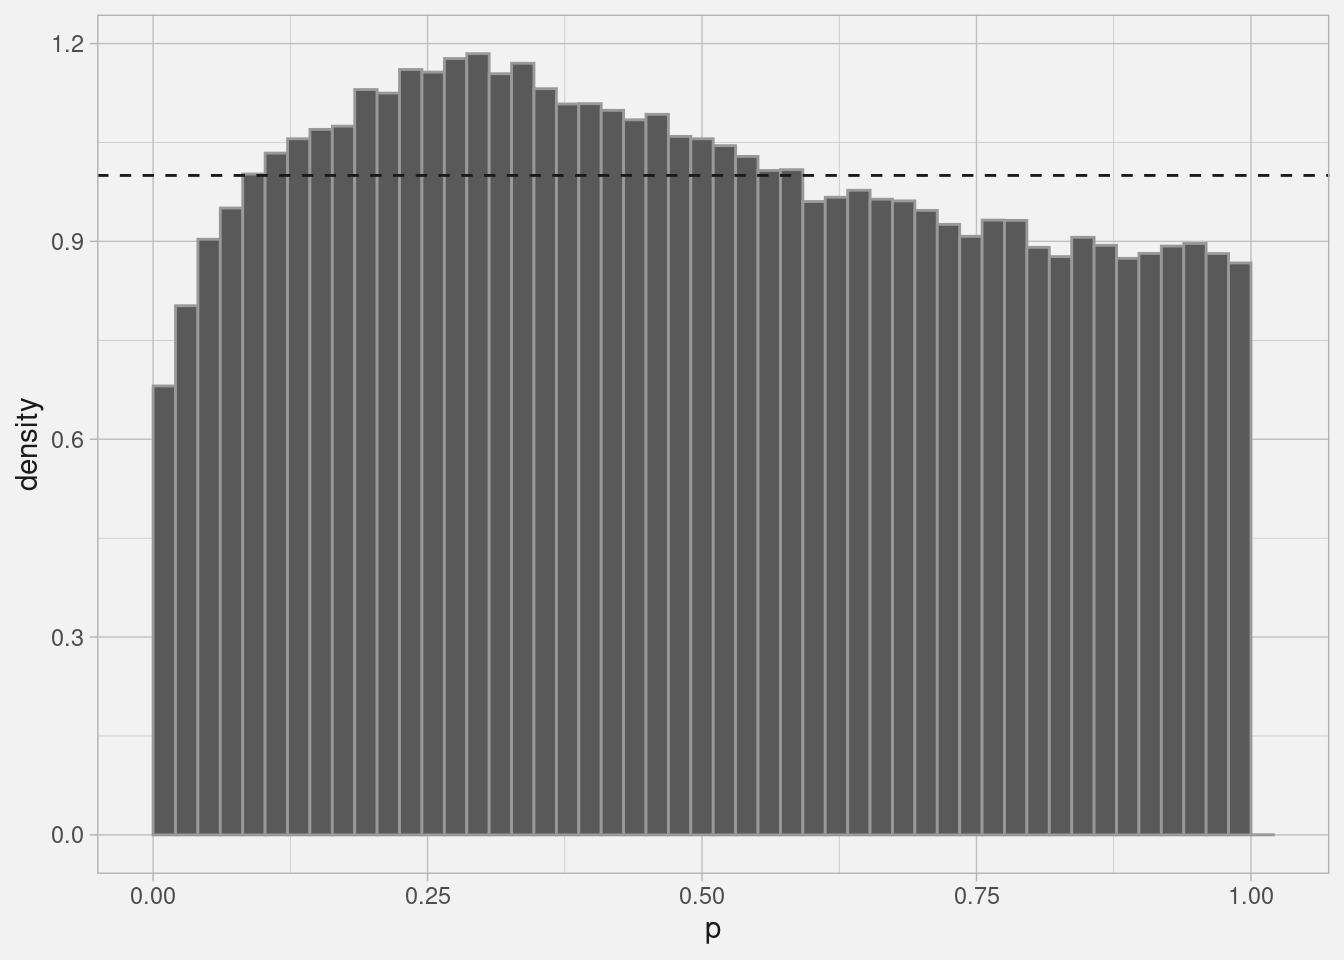
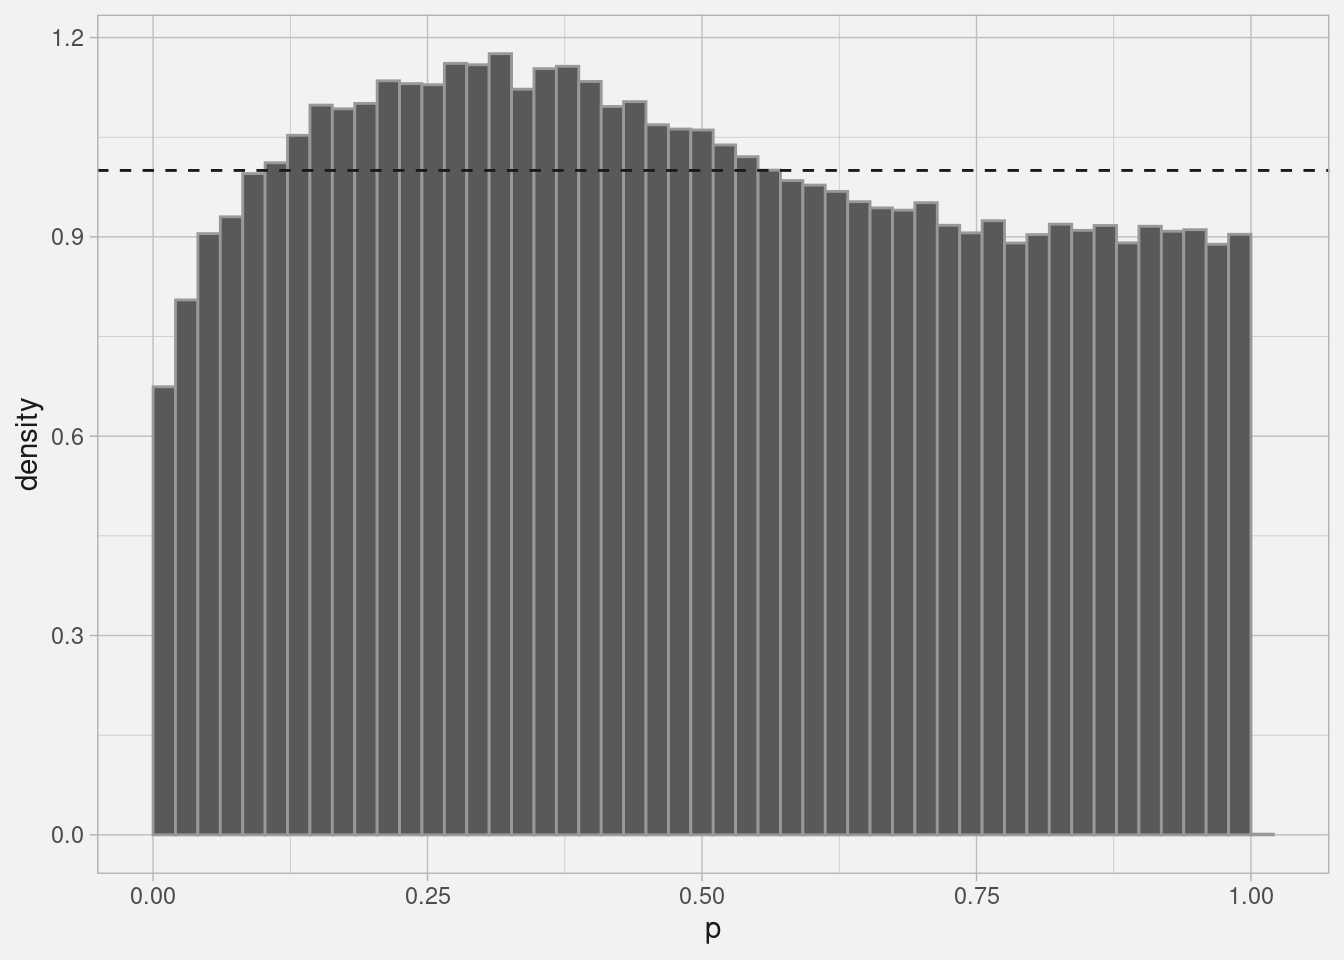
Built site for gh-pages

diff --git a/posts/collapse_is_sick/sick.html b/posts/collapse_is_sick/sick.html
@@ -7,7 +7,7 @@
 <meta name="viewport" content="width=device-width, initial-scale=1.0, user-scalable=yes">
 
 <meta name="author" content="Andrew Ghazi">
-<meta name="dcterms.date" content="2023-10-21">
+<meta name="dcterms.date" content="2023-11-29">
 
 <title>andrewghazi.github.io - collapse is sick</title>
 <style>
@@ -163,7 +163,7 @@ pre > code.sourceCode > span > a:first-child::before { text-decoration: underlin
       <div>
       <div class="quarto-title-meta-heading">Published</div>
       <div class="quarto-title-meta-contents">
-        <p class="date">October 21, 2023</p>
+        <p class="date">November 29, 2023</p>
       </div>
     </div>
     
@@ -197,14 +197,14 @@ pre > code.sourceCode > span > a:first-child::before { text-decoration: underlin
 
 
 
-<p>I saw an R package I hadn’t heard of called <a href="https://sebkrantz.github.io/collapse/">collapse</a> performing well on <a href="https://duckdblabs.github.io/db-benchmark/">the duckdb database-like ops benchmark</a> and thought I’d try it out on a little statistical simulation. tl;dr: <em>collapse is sick.</em></p>
+<p>I saw an R package I hadn’t heard of called <a href="https://sebkrantz.github.io/collapse/">collapse</a> performing well on <a href="https://duckdblabs.github.io/db-benchmark/">the duckdb database-like ops benchmark</a>, and I thought I’d try it out on a little statistical simulation. tl;dr: <em>collapse is sick.</em></p>
 <section id="context" class="level1">
 <h1>Context</h1>
 <p>I wanted to know the null p-value distribution that you’d get when mis-applying a t-test to non-normally distributed data with a small number of data points. So to simulate this I</p>
 <ul>
 <li>generate 100k groups</li>
 <li>generate 6*100k random t-distributed numbers (df = 3)</li>
-<li>compute the p-value test statistic for each group. In R, this is <code>2*pt(sqrt(6) * abs(mean(x)) / sd(x), 5, lower.tail = FALSE)</code> where <code>x</code> are the random values for the group.
+<li>compute the p-value test statistic for each group. In R, this is <code>2*pt(sqrt(6) * abs(mean(x) / sd(x)), 5, lower.tail = FALSE)</code> where <code>x</code> are the random values for the group.
 <ul>
 <li>This can be done naively with <code>t.test(x)$p.value</code> of course, but that comes with a lot of slow baggage.</li>
 <li>It’s probably also possible to figure out the distribution I’m trying to simulate analytically. Simulating it is easier.</li>
@@ -232,17 +232,17 @@ pre > code.sourceCode > span > a:first-child::before { text-decoration: underlin
 </details>
 <div class="cell-output cell-output-stdout">
 <pre><code>              g           x
-      1:      1 -0.74564102
-      2:      1 -0.09775264
-      3:      1  0.49987160
-      4:      1 -2.03793671
-      5:      1  0.33529895
+      1:      1  3.80334060
+      2:      1 -0.01652522
+      3:      1 -0.98015358
+      4:      1 -1.34922462
+      5:      1 -2.36252045
      ---                   
-1799996: 300000  2.45176851
-1799997: 300000  0.16603354
-1799998: 300000  0.48634523
-1799999: 300000 -0.94295726
-1800000: 300000  0.72400245</code></pre>
+1799996: 300000  0.70042953
+1799997: 300000 -1.08753394
+1799998: 300000  0.35327095
+1799999: 300000 -0.17573898
+1800000: 300000  1.92069646</code></pre>
 </div>
 </div>
 </section>
@@ -251,14 +251,15 @@ pre > code.sourceCode > span > a:first-child::before { text-decoration: underlin
 <p>We’ll try it in <code>dplyr</code>, <code>data.table</code>, and <code>collapse</code>.</p>
 <section id="dplyr" class="level2">
 <h2 class="anchored" data-anchor-id="dplyr"><code>dplyr</code></h2>
+<p>So easy to write, so clean.</p>
 <div class="cell">
 <details open="">
 <summary>Code</summary>
 <div class="sourceCode cell-code" id="cb4"><pre class="sourceCode r code-with-copy"><code class="sourceCode r"><span id="cb4-1"><a href="#cb4-1" aria-hidden="true" tabindex="-1"></a>dplyr_soln <span class="ot">=</span> <span class="cf">function</span>(val_dt) {</span>
 <span id="cb4-2"><a href="#cb4-2" aria-hidden="true" tabindex="-1"></a>  val_dt <span class="sc">|&gt;</span></span>
 <span id="cb4-3"><a href="#cb4-3" aria-hidden="true" tabindex="-1"></a>    <span class="fu">group_by</span>(g) <span class="sc">|&gt;</span></span>
-<span id="cb4-4"><a href="#cb4-4" aria-hidden="true" tabindex="-1"></a>    <span class="fu">summarise</span>(<span class="at">p =</span> <span class="dv">2</span> <span class="sc">*</span>  <span class="fu">pt</span>(<span class="fu">abs</span>(<span class="fu">mean</span>(x) <span class="sc">*</span> <span class="fu">sqrt</span>(<span class="dv">6</span>) <span class="sc">/</span> <span class="fu">sd</span>(x)), </span>
-<span id="cb4-5"><a href="#cb4-5" aria-hidden="true" tabindex="-1"></a>                          <span class="dv">5</span>, <span class="at">lower.tail =</span> <span class="cn">FALSE</span>))</span>
+<span id="cb4-4"><a href="#cb4-4" aria-hidden="true" tabindex="-1"></a>    <span class="fu">summarise</span>(<span class="at">p =</span> <span class="dv">2</span> <span class="sc">*</span> <span class="fu">pt</span>(<span class="fu">abs</span>(<span class="fu">mean</span>(x) <span class="sc">*</span> <span class="fu">sqrt</span>(<span class="dv">6</span>) <span class="sc">/</span> <span class="fu">sd</span>(x)), </span>
+<span id="cb4-5"><a href="#cb4-5" aria-hidden="true" tabindex="-1"></a>                         <span class="dv">5</span>, <span class="at">lower.tail =</span> <span class="cn">FALSE</span>))</span>
 <span id="cb4-6"><a href="#cb4-6" aria-hidden="true" tabindex="-1"></a>}</span></code><button title="Copy to Clipboard" class="code-copy-button"><i class="bi"></i></button></pre></div>
 </details>
 </div>
@@ -271,19 +272,18 @@ pre > code.sourceCode > span > a:first-child::before { text-decoration: underlin
 <details open="">
 <summary>Code</summary>
 <div class="sourceCode cell-code" id="cb5"><pre class="sourceCode r code-with-copy"><code class="sourceCode r"><span id="cb5-1"><a href="#cb5-1" aria-hidden="true" tabindex="-1"></a>dt_soln <span class="ot">=</span> <span class="cf">function</span>(val_dt) {</span>
-<span id="cb5-2"><a href="#cb5-2" aria-hidden="true" tabindex="-1"></a></span>
-<span id="cb5-3"><a href="#cb5-3" aria-hidden="true" tabindex="-1"></a>  val_dt[,.(<span class="at">p =</span> <span class="dv">2</span> <span class="sc">*</span> <span class="fu">pt</span>(<span class="fu">abs</span>(<span class="fu">mean</span>(x) <span class="sc">/</span> (<span class="fu">sd</span>(x) <span class="sc">/</span> <span class="fu">sqrt</span>(<span class="dv">6</span>))), </span>
-<span id="cb5-4"><a href="#cb5-4" aria-hidden="true" tabindex="-1"></a>                       <span class="dv">5</span>, <span class="at">lower.tail =</span> <span class="cn">FALSE</span>)), </span>
-<span id="cb5-5"><a href="#cb5-5" aria-hidden="true" tabindex="-1"></a>         by <span class="ot">=</span> g]</span>
-<span id="cb5-6"><a href="#cb5-6" aria-hidden="true" tabindex="-1"></a>}</span>
-<span id="cb5-7"><a href="#cb5-7" aria-hidden="true" tabindex="-1"></a></span>
-<span id="cb5-8"><a href="#cb5-8" aria-hidden="true" tabindex="-1"></a>dt_fast_soln <span class="ot">=</span> <span class="cf">function</span>(val_dt) {</span>
-<span id="cb5-9"><a href="#cb5-9" aria-hidden="true" tabindex="-1"></a>  </span>
-<span id="cb5-10"><a href="#cb5-10" aria-hidden="true" tabindex="-1"></a>  val_dt[,.(<span class="at">m =</span> <span class="fu">mean</span>(x),</span>
-<span id="cb5-11"><a href="#cb5-11" aria-hidden="true" tabindex="-1"></a>            <span class="at">s =</span> <span class="fu">sd</span>(x)),</span>
-<span id="cb5-12"><a href="#cb5-12" aria-hidden="true" tabindex="-1"></a>         by <span class="ot">=</span> g][, p <span class="sc">:</span><span class="er">=</span> <span class="dv">2</span> <span class="sc">*</span> (<span class="dv">1</span> <span class="sc">-</span> <span class="fu">pt</span>(<span class="fu">abs</span>(m <span class="sc">*</span> <span class="fu">sqrt</span>(<span class="dv">6</span>) <span class="sc">/</span> s),</span>
-<span id="cb5-13"><a href="#cb5-13" aria-hidden="true" tabindex="-1"></a>                                    <span class="dv">5</span>, <span class="at">lower.tail =</span> <span class="cn">FALSE</span>))]</span>
-<span id="cb5-14"><a href="#cb5-14" aria-hidden="true" tabindex="-1"></a>}</span></code><button title="Copy to Clipboard" class="code-copy-button"><i class="bi"></i></button></pre></div>
+<span id="cb5-2"><a href="#cb5-2" aria-hidden="true" tabindex="-1"></a>  val_dt[,.(<span class="at">p =</span> <span class="dv">2</span> <span class="sc">*</span> <span class="fu">pt</span>(<span class="fu">abs</span>(<span class="fu">mean</span>(x) <span class="sc">/</span> (<span class="fu">sd</span>(x) <span class="sc">/</span> <span class="fu">sqrt</span>(<span class="dv">6</span>))), </span>
+<span id="cb5-3"><a href="#cb5-3" aria-hidden="true" tabindex="-1"></a>                       <span class="dv">5</span>, <span class="at">lower.tail =</span> <span class="cn">FALSE</span>)), </span>
+<span id="cb5-4"><a href="#cb5-4" aria-hidden="true" tabindex="-1"></a>         by <span class="ot">=</span> g]</span>
+<span id="cb5-5"><a href="#cb5-5" aria-hidden="true" tabindex="-1"></a>}</span>
+<span id="cb5-6"><a href="#cb5-6" aria-hidden="true" tabindex="-1"></a></span>
+<span id="cb5-7"><a href="#cb5-7" aria-hidden="true" tabindex="-1"></a>dt_fast_soln <span class="ot">=</span> <span class="cf">function</span>(val_dt) {</span>
+<span id="cb5-8"><a href="#cb5-8" aria-hidden="true" tabindex="-1"></a>  </span>
+<span id="cb5-9"><a href="#cb5-9" aria-hidden="true" tabindex="-1"></a>  val_dt[,.(<span class="at">m =</span> <span class="fu">mean</span>(x),</span>
+<span id="cb5-10"><a href="#cb5-10" aria-hidden="true" tabindex="-1"></a>            <span class="at">s =</span> <span class="fu">sd</span>(x)),</span>
+<span id="cb5-11"><a href="#cb5-11" aria-hidden="true" tabindex="-1"></a>         by <span class="ot">=</span> g][, p <span class="sc">:</span><span class="er">=</span> <span class="dv">2</span> <span class="sc">*</span> (<span class="dv">1</span> <span class="sc">-</span> <span class="fu">pt</span>(<span class="fu">abs</span>(m <span class="sc">*</span> <span class="fu">sqrt</span>(<span class="dv">6</span>) <span class="sc">/</span> s),</span>
+<span id="cb5-12"><a href="#cb5-12" aria-hidden="true" tabindex="-1"></a>                                    <span class="dv">5</span>, <span class="at">lower.tail =</span> <span class="cn">FALSE</span>))]</span>
+<span id="cb5-13"><a href="#cb5-13" aria-hidden="true" tabindex="-1"></a>}</span></code><button title="Copy to Clipboard" class="code-copy-button"><i class="bi"></i></button></pre></div>
 </details>
 </div>
 </section>
@@ -330,13 +330,13 @@ disabled.</code></pre>
 <pre><code># A tibble: 4 × 6
   expression                 min   median `itr/sec` mem_alloc `gc/sec`
   &lt;bch:expr&gt;            &lt;bch:tm&gt; &lt;bch:tm&gt;     &lt;dbl&gt; &lt;bch:byt&gt;    &lt;dbl&gt;
-1 dplyr_soln(val_dt)       3.74s     3.8s     0.263      50MB    19.5 
-2 dt_soln(val_dt)          3.08s    3.24s     0.309    12.7MB    16.4 
-3 dt_fast_soln(val_dt)  107.72ms 109.71ms     9.14     60.9MB     7.31
-4 collapse_soln(val_dt)  52.46ms  54.26ms    18.1        29MB    10.9 </code></pre>
+1 dplyr_soln(val_dt)       3.79s    3.81s     0.263      50MB    19.6 
+2 dt_soln(val_dt)          3.09s    3.19s     0.314    12.7MB    18.7 
+3 dt_fast_soln(val_dt)   107.3ms 107.66ms     9.19     60.9MB     7.35
+4 collapse_soln(val_dt)  52.44ms  53.41ms    18.4        29MB     9.22</code></pre>
 </div>
 </div>
-<p><code>data.table</code> is about 35x faster than <code>dplyr</code>, and <code>collapse</code> is <em>70x</em> faster.</p>
+<p><code>data.table</code> is about 35x faster than <code>dplyr</code>, and <code>collapse</code> is <strong>70x</strong> faster. It somehow manages to vectorize the group-wise means / sds, but <em>also</em> use those as inputs to a single call to the internally vectorized <code>stats::pt()</code>.</p>
 </section>
 <section id="misc" class="level1">
 <h1>Misc</h1>
@@ -345,7 +345,7 @@ disabled.</code></pre>
 </ul>
 <p>And here’s the distribution I was trying to simulate so I can have a figure on this post. Violating the normality assumptions leads to an incorrect p-value distribution, surprise!</p>
 <div class="cell">
-<details open="">
+<details>
 <summary>Code</summary>
 <div class="sourceCode cell-code" id="cb10"><pre class="sourceCode r code-with-copy"><code class="sourceCode r"><span id="cb10-1"><a href="#cb10-1" aria-hidden="true" tabindex="-1"></a><span class="fu">library</span>(ggplot2)</span>
 <span id="cb10-2"><a href="#cb10-2" aria-hidden="true" tabindex="-1"></a></span>

diff --git a/index.html b/index.html
@@ -176,7 +176,7 @@ benchmark
 </div>
 <a href="./posts/collapse_is_sick/sick.html">
 <div class="listing-description">
-I saw an R package I hadn’t heard of called collapse performing well on the duckdb database-like ops benchmark and…<em></em>
+I saw an R package I hadn’t heard of called collapse performing well on the duckdb database-like ops benchmark, and I…<em></em>
 </div>
 </a>
 </div>
